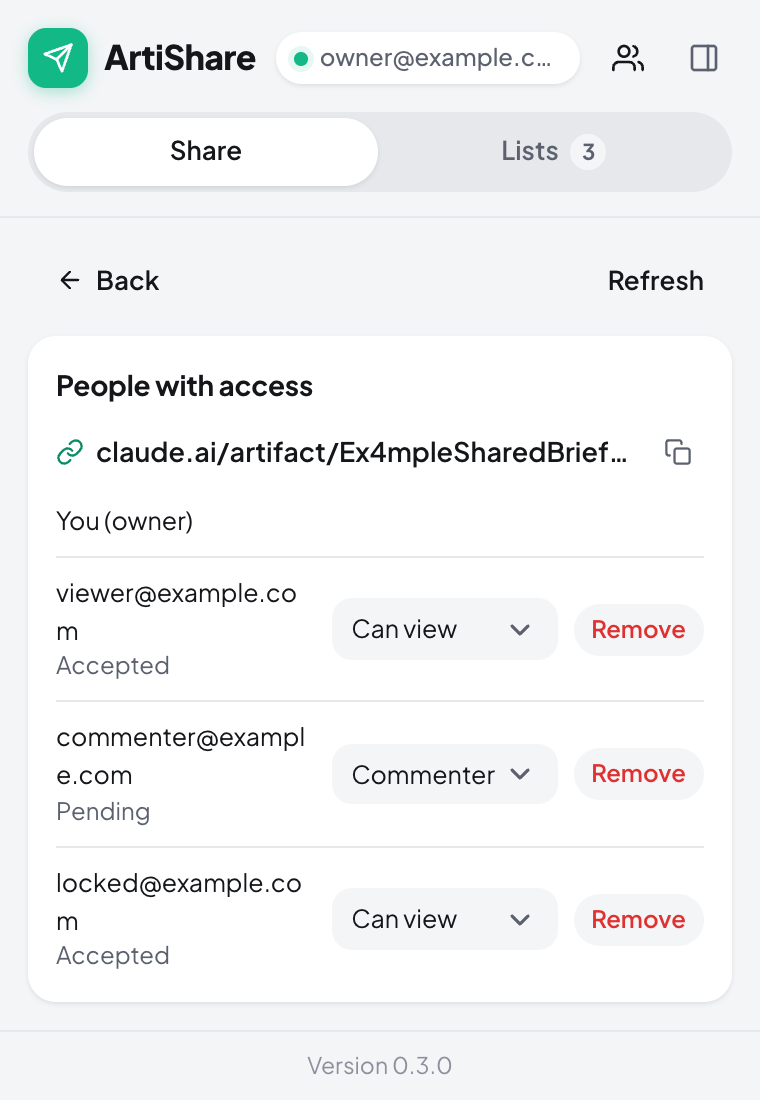
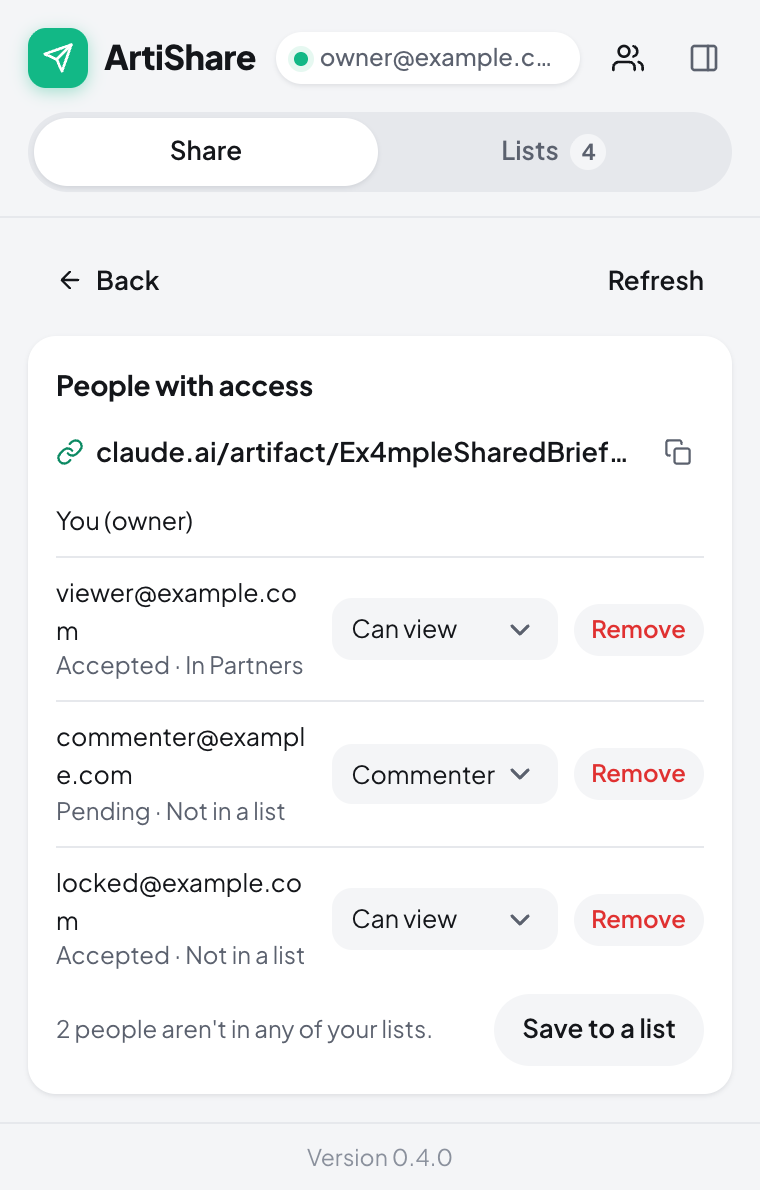
F013: Show the lists each person is in and Save to a list in the screenshots

diff --git a/e2e/F013.spec.ts b/e2e/F013.spec.ts
@@ -1,0 +1,101 @@
+import { readFileSync } from 'node:fs';
+import { expect, test } from '@playwright/test';
+
+// F013: the screenshots show Manage access with the lists each person is in, and Save to a list.
+// The pictures come from `npm run screenshots`; this checks they exist at the right size, that the
+// generator builds the scene the steps describe (and waits for it before taking the picture), that
+// the README shows manage-save.png beside manage.png with alt text, and that everything is made up.
+
+const root = new URL('..', import.meta.url);
+const read = (path: string) => readFileSync(new URL(path, root));
+const source = read('scripts/screenshots.spec.ts').toString();
+const readme = read('README.md').toString();
+
+/** Width and height from a PNG's IHDR chunk. */
+function size(path: string) {
+  const png = read(path);
+  expect(png.subarray(1, 4).toString(), `${path} is a PNG`).toBe('PNG');
+
+  return { width: png.readUInt32BE(16), height: png.readUInt32BE(20) };
+}
+
+/** The generator's code between the line that matches `from` and the next one that matches `to`. */
+function between(from: string, to: string) {
+  const start = source.indexOf(from);
+  expect(start, `${from} is in the generator`).toBeGreaterThan(-1);
+  const end = source.indexOf(to, start);
+  expect(end, `${to} follows`).toBeGreaterThan(start);
+
+  return source.slice(start, end);
+}
+
+test('manage.png is Manage access over a Shared artifact: one person in a list, two in none, the note', () => {
+  expect(source).toContain("const SHARED = 'https://claude.ai/artifact/Ex4mpleShared");
+  const scene = between('await tab.goto(SHARED)', '`${DOCS}/manage.png`');
+  // A saved list holds one of the fake's three people, so one reads 'In Partners'…
+  expect(scene).toContain("fill('viewer@example.com')");
+  expect(scene).toContain("'In Partners'");
+  // …and the other two read 'Not in a list', with the note and the button under them.
+  expect(scene).toContain("'Not in a list'");
+  expect(scene).toContain('toHaveCount(2)');
+  expect(scene).toContain("2 people aren't in any of your lists.");
+  expect(scene).toContain('toHaveCount(4)'); // you (owner) and the three people
+  const { width, height } = size('docs/images/manage.png');
+  expect(width).toBe(760);
+  expect(height).toBeGreaterThan(400);
+  expect(height).toBeLessThanOrEqual(1200);
+});
+
+test('manage-save.png is Save to a list with the boxes ticked, New list picked and a name typed', () => {
+  const scene = between("name: 'Save to a list' }).click()", '`${DOCS}/manage-save.png`');
+  expect(scene).toContain("getByRole('checkbox', { checked: true })");
+  expect(scene).toContain("getByRole('radio', { name: 'New list' })).toBeChecked()");
+  expect(scene).toContain("fill('Pending reviewers')");
+  // The sticky Save bar would hide the Permission field if the picture were taken from the top.
+  expect(source).toContain('`${DOCS}/manage-save.png`, true)');
+  const { width, height } = size('docs/images/manage-save.png');
+  expect(width).toBe(760);
+  expect(height).toBeGreaterThan(400);
+  expect(height).toBeLessThanOrEqual(1200);
+});
+
+test('the README shows manage-save.png right beside manage.png, with alt text for each', () => {
+  const manage = /<img src="docs\/images\/manage\.png"[^>]*alt="([^"]+)">/.exec(readme);
+  const save = /<img src="docs\/images\/manage-save\.png"[^>]*alt="([^"]+)">/.exec(readme);
+  expect(manage, 'manage.png is in the README').not.toBeNull();
+  expect(save, 'manage-save.png is in the README').not.toBeNull();
+  // Next to each other: only the spacer is between the two tags, so they share a row.
+  expect(readme).toMatch(
+    /<img src="docs\/images\/manage\.png"[^>]*>\s*&nbsp;\s*<img src="docs\/images\/manage-save\.png"[^>]*>/,
+  );
+  expect(manage![1]).toMatch(/popup/i);
+  expect(manage![1]).toMatch(/Manage access/);
+  expect(manage![1]).toMatch(/lists/i);
+  expect(manage![1]).toMatch(/Save to a list/);
+  expect(save![1]).toMatch(/popup/i);
+  expect(save![1]).toMatch(/Save to a list/);
+  expect(save![1]).toMatch(/New list/);
+  expect(save![1]).toMatch(/name/i);
+  // The other pictures are still there.
+  for (const name of ['share', 'preview', 'done', 'sidepanel']) {
+    expect(readme, name).toContain(`docs/images/${name}.png`);
+  }
+});
+
+test('the store screenshots stay 1280×800', () => {
+  for (const name of ['1-share', '2-preview', '3-done']) {
+    expect(size(`store/images/screenshot-${name}.png`), name).toEqual({ width: 1280, height: 800 });
+    expect(source, name).toContain(`screenshot-${name}.png`);
+  }
+});
+
+test('every address and artifact id the generator uses is made up', () => {
+  const ids = [...source.matchAll(/claude\.ai\/artifact\/(\w+)/g)].map((m) => m[1]);
+  expect(ids.length).toBeGreaterThan(0);
+  for (const id of ids) expect(id, id).toMatch(/^Ex4mple/);
+
+  const domains = [...source.matchAll(/@([a-z][\w.]*)/g)].map((m) => m[1]).filter((d) => d?.includes('.'));
+  expect(domains).toContain('example.com'); // viewer@example.com
+  for (const domain of domains) expect(domain, domain).toMatch(/\.example(\.com)?$|^example\.com$/);
+  expect(source).not.toMatch(/@(gmail|outlook|yahoo|anthropic)\./);
+});

diff --git a/scripts/screenshots.spec.ts b/scripts/screenshots.spec.ts
@@ -58,12 +58,13 @@ async function openPopup(file = 'popup.html', viewport = { width: 380, height: 6
   return { context, popup };
 }
 
-async function snap(popup: Page, path: string) {
-  // No caret or focus ring in the picture, and the content from the top.
-  await popup.evaluate(() => {
+async function snap(popup: Page, path: string, bottom = false) {
+  // No caret or focus ring in the picture, and the content from the top (or from the bottom, when a
+  // sticky action bar would otherwise hide the last field).
+  await popup.evaluate((toBottom) => {
     (document.activeElement as HTMLElement | null)?.blur();
-    document.querySelector('.popup-body')?.scrollTo(0, 0);
-  });
+    document.querySelector('.popup-body')?.scrollTo(0, toBottom ? 10_000 : 0);
+  }, bottom);
   await popup.locator('.popup').screenshot({ path });
 }
 
@@ -183,9 +184,33 @@ test('regenerate the README and store screenshots', async () => {
   // 4. Manage access, on an artifact that already has people (the popup reads the active tab).
   await tab.goto(SHARED);
   await popup.reload();
+  // One of the three people already invited is in a list, so the picture shows both notes:
+  // 'In Partners' for them and 'Not in a list' for the other two.
+  await popup.getByRole('tab', { name: /Lists/ }).click();
+  await lists.getByRole('button', { name: 'New list' }).click();
+  await lists.getByLabel('List name').last().fill('Partners');
+  await lists.getByLabel('Email addresses').last().fill('viewer@example.com');
+  await lists.getByLabel('Permission').filter({ visible: true }).selectOption({ label: 'Can view' });
+  await lists.getByRole('button', { name: 'Save list' }).click();
+  await expect(lists.locator('details.list-card', { hasText: 'Partners' })).toHaveCount(1);
+  await popup.getByRole('tab', { name: 'Share' }).click();
   await manage.click();
-  await expect(share.locator('ul.people > li')).toHaveCount(4);
+  const people = share.locator('ul.people > li');
+  await expect(people).toHaveCount(4);
+  await expect(people.filter({ hasText: 'In Partners' })).toHaveCount(1);
+  await expect(people.filter({ hasText: 'Not in a list' })).toHaveCount(2);
+  await expect(share.getByText("2 people aren't in any of your lists.")).toBeVisible();
   await snap(popup, `${DOCS}/manage.png`);
+
+  // 5. Save to a list: the two people in no list, ticked, with New list picked and a name typed.
+  await share.getByRole('button', { name: 'Save to a list' }).click();
+  const save = share
+    .locator('section.card')
+    .filter({ has: popup.getByRole('button', { name: /^Save 2 people/ }) });
+  await expect(save.getByRole('checkbox', { checked: true })).toHaveCount(3); // Select all + two people
+  await expect(save.getByRole('radio', { name: 'New list' })).toBeChecked();
+  await save.getByLabel('Name').fill('Pending reviewers');
+  await snap(popup, `${DOCS}/manage-save.png`, true);
 
   const shot = (name: string) => test.info().outputPath(`store-${name}.png`);
   await storeImage(

diff --git a/README.md b/README.md
@@ -10,8 +10,12 @@ ArtiShare is a Chrome extension. You save groups of email addresses as **lists**
   <img src="docs/images/preview.png" width="190" alt="Preview in the popup: who will be invited and who already has access">
   &nbsp;
   <img src="docs/images/done.png" width="190" alt="Finished run in the popup: every invite sent">
+</p>
+
+<p align="center">
+  <img src="docs/images/manage.png" width="190" alt="Manage access in the popup: the people already invited to an artifact, each with a permission, a Remove button and a note saying which of your lists they are in or that they are in none, with a Save to a list button under them">
   &nbsp;
-  <img src="docs/images/manage.png" width="190" alt="Manage access in the popup: the people already invited to an artifact, each with a permission and a Remove button">
+  <img src="docs/images/manage-save.png" width="190" alt="Save to a list in the popup: a checkbox for each person who is in none of your lists, New list picked with a name typed, and Save and Cancel buttons">
 </p>
 
 <p align="center">
